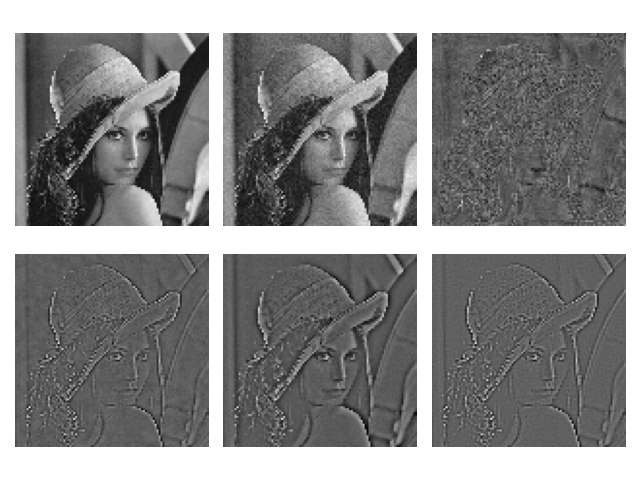
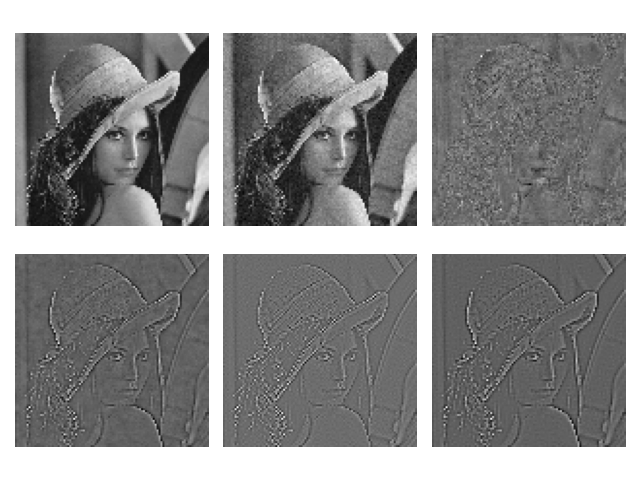
update results

diff --git a/nlm_para_test.py b/nlm_para_test.py
@@ -24,57 +24,70 @@ noise = sigma_noise * np.random.randn(img.shape[0], img.shape[1])
 noise_img = img + noise
 
 # test for parameter h
-# hs=[5,10,15]
-# nlhs=[]
-# for h in hs:
-#    nlhs.append(nlm.nlm(noise_img,sigma_noise*h))
-#
-# pos=[x for x in range(131,131+len(hs))]
-# plt.figure()
-# for i in range(len(hs)):
-#     plt.subplot(pos[i])
-#     plt.imshow(nlhs[i], 'gray')
-#     plt.axis('off')
-# plt.show()
+print("======h:======")
+hs=[5,10,15]
+nlhs=[]
+for h in hs:
+    img_t=nlm.nlm(noise_img,sigma_noise*h)
+    nlhs.append(img_t)
+    print(np.sum(np.square(img-img_t)))
+
+pos=[x for x in range(131,131+len(hs))]
+plt.figure()
+for i in range(len(hs)):
+    plt.subplot(pos[i])
+    plt.imshow(nlhs[i], 'gray')
+    plt.axis('off')
+    cv2.imwrite(f'results/h_{i}.jpg', np.uint8(img * 255))
+
+plt.show()
 
 
 # test for parameter R, the radius of the search window
-# Rs=[1,5,10]
-# nlRs=[]
-# for R in Rs:
-#     img_t=nlm.nlm(noise_img,sigma_noise*10,R)
-#     nlRs.append(img_t)
-#     print(np.sum(np.square(img-img_t)))
-#
-# pos=[x for x in range(131,131+len(Rs))]
-# plt.figure()
-# for i in range(len(Rs)):
-#     plt.subplot(pos[i])
-#     plt.imshow(nlRs[i], 'gray')
-#     plt.axis('off')
-# plt.show()
+print("======R:======")
+Rs=[1,5,10]
+nlRs=[]
+for R in Rs:
+    img_t=nlm.nlm(noise_img,sigma_noise*10,R)
+    nlRs.append(img_t)
+    print(np.sum(np.square(img-img_t)))
+
+pos=[x for x in range(131,131+len(Rs))]
+plt.figure()
+for i in range(len(Rs)):
+    plt.subplot(pos[i])
+    plt.imshow(nlRs[i], 'gray')
+    plt.axis('off')
+    cv2.imwrite(f'results/R_{i}.jpg', np.uint8(img * 255))
+plt.show()
 
 # test for parameter r, the radius of the similarity window
-# rs = [0, 3, 6]
-# nlrs = []
-# for r in rs:
-#     nlrs.append(nlm.nlm(noise_img, sigma_noise * 10, 10, r))
-#
-# pos = [x for x in range(131, 131 + len(rs))]
-# plt.figure()
-# for i in range(len(rs)):
-#     plt.subplot(pos[i])
-#     plt.imshow(nlrs[i], 'gray')
-#     plt.axis('off')
-#
-# plt.show()
+print("======r:======")
+rs = [0, 3, 6]
+nlrs = []
+for r in rs:
+    img_t=nlm.nlm(noise_img, sigma_noise * 10, 10, r)
+    nlrs.append(img_t)
+    print(np.sum(np.square(img - img_t)))
+
+pos = [x for x in range(131, 131 + len(rs))]
+plt.figure()
+for i in range(len(rs)):
+    plt.subplot(pos[i])
+    plt.imshow(nlrs[i], 'gray')
+    plt.axis('off')
+    cv2.imwrite(f'results/r1_{i}.jpg', np.uint8(img * 255))
+plt.show()
 
 # compare the results
 # whether add a Gaussian kernel to the Euclidean distance or not
+print("======G:======")
 nlgs = []
 nlgs.append(noise_img)
 nlgs.append(nlm.nlm(noise_img, sigma_noise * 10, 10, 3, False))
 nlgs.append(nlm.nlm(noise_img, sigma_noise * 10, 10, 3, True))
+for i in range(1,3):
+    print(np.sum(np.square(img-nlgs[i] )))
 
 pos = [x for x in range(131, 131 + len(nlgs))]
 plt.figure()
@@ -82,4 +95,5 @@ for i in range(len(nlgs)):
     plt.subplot(pos[i])
     plt.imshow(nlgs[i], 'gray')
     plt.axis('off')
+    cv2.imwrite(f'results/g_{i}.jpg', np.uint8(img * 255))
 plt.show()

diff --git a/comparison.py b/comparison.py
@@ -71,7 +71,7 @@ def autolabel(rects, ax, xpos='center'):
     for rect in rects:
         height = rect.get_height()
         ax.text(rect.get_x() + rect.get_width() * offset[xpos], 1.01 * height,
-                '{:.2f}'.format(height), ha=ha[xpos], va='bottom', fontdict={"fontsize": 14})
+                '{:.2f}'.format(height), ha=ha[xpos], va='bottom', fontdict={"fontsize": 16})
 
 
 fig, ax = plt.subplots()
@@ -82,5 +82,5 @@ for i in range(4):
 rects = ax.bar(range(4), y, width=0.4)
 autolabel(rects, ax, "center")
 plt.xticks(range(4), x)
-plt.yticks(range(0, 70, 10))
+plt.yticks(range(0, 60, 10))
 plt.show()

diff --git a/aniso_filter.py b/aniso_filter.py
@@ -93,4 +93,5 @@ class anisodiff2D(object):
 
 
 def af(img):
-    return anisodiff2D().fit(img)
+    # return anisodiff2D().fit(img)
+    return cv2.bilateralFilter(np.uint8(img*255), 3, 100, 100)/255

diff --git a/README.md b/README.md
@@ -1,0 +1,7 @@
+# NLM
+
+## library
+
++ numpy
++ cv2
++ matplotlib
